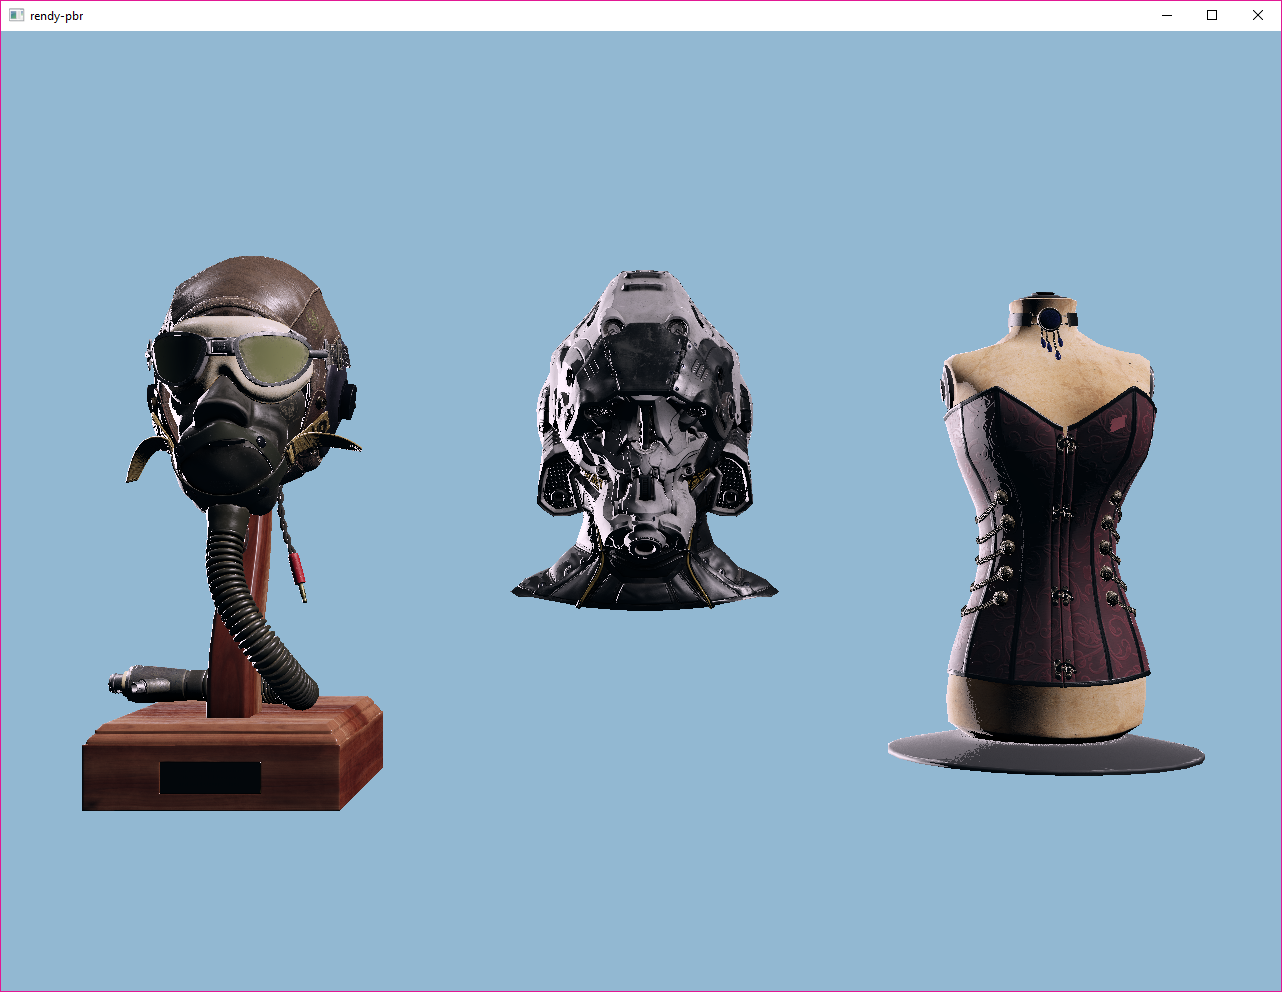
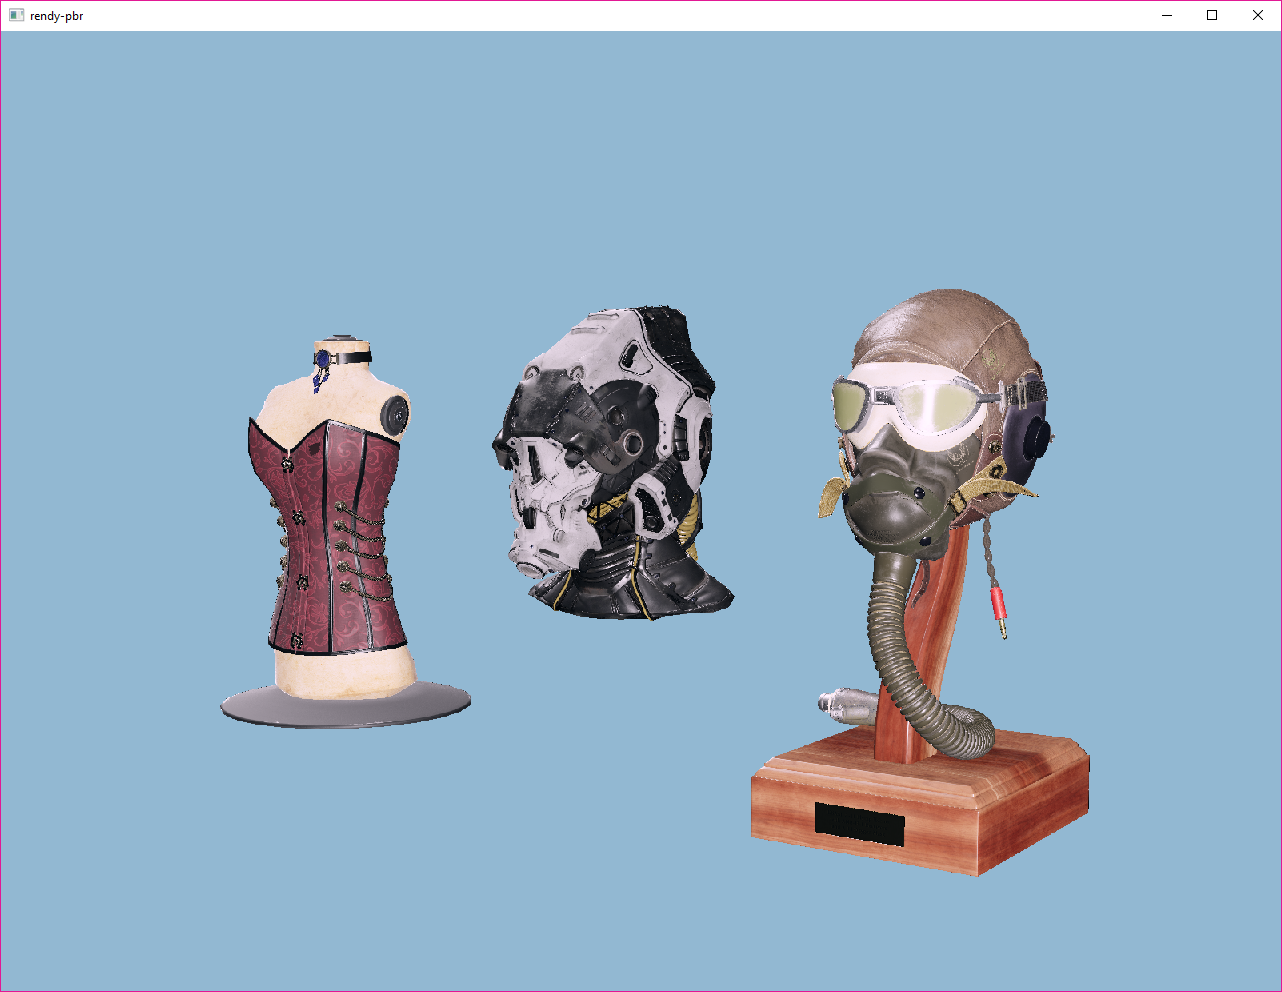
update screenshots and readme

Changed region(s): [[0.5616, 0.2812, 0.936, 0.9062], [0.0624, 0.25, 0.3744, 0.8438], [0.3744, 0.25, 0.624, 0.625]]

diff --git a/README.md b/README.md
@@ -1,20 +1,25 @@
 # `rendy-pbr`
 
-This is a toy realtime physically-based renderer written with `rendy`, a 'make-your-own-renderer' toolkit
+This is a small, realtime physically-based renderer written with `rendy`, a 'make-your-own-renderer' toolkit
 which builds on `gfx-hal` by providing a render graph, compile- and run-time safety checks, and
-other helpers.
+other helpers. It is a testbed for `rendy` and Amethyst; much or all of what is implemented here will eventually be added to the Amethyst renderer in some form.
+
+![](screenshots/ibl1.png)
 
 ## Planned features/next steps:
 
-* [x] Physically based shading model
-* [x] Point lights
-* [x] Basic `glTF` import
-* [x] HDR rendering with a tone mapping pass
-* [x] More robust `glTF` import
-* [x] Scene format for loading models from multiple glTF files
-* [ ] Diffuse and specular environment mapping
-* [ ] Directional lights
-* [ ] Shadow mapping
+-   [x] Physically based shading model
+-   [x] Point lights
+-   [x] Basic `glTF` import
+-   [x] HDR rendering with a tone mapping pass
+-   [x] More robust `glTF` import
+-   [x] Scene format for loading models from multiple glTF files
+-   [x] Diffuse and specular image based lighting using split-sum approximation
+-   [x] Emissive materials
+-   [ ] Bloom
+-   [ ] Postprocess color correction
+-   [ ] Directional lights
+-   [ ] Shadow mapping
 
 # Scene Description
 
@@ -25,30 +30,43 @@ tracker!
 # Controls
 
 ### Navigation
-* **Left click**: Rotate camera
-* **Middle click**: Pan camera
-* **Right click/Scroll wheel**: Dolly camera
 
-\* *Note: for now these controls are disabled*
+-   **Left click**: Rotate camera
+-   **Middle click**: Pan camera
+-   **Right click/Scroll wheel**: Dolly camera
+
+\* _Note: for now model controls are disabled_
+
 ### ~~Model controls~~
-* ~~**X**: Add a row of models in the X direction~~
-* ~~**Y**: Add a row of models in the Y direction~~
-* ~~**Z**: Add a row of models in the Z direction~~
 
-\* *Hold shift to subtract a row*
+-   ~~**X**: Add a row of models in the X direction~~
+-   ~~**Y**: Add a row of models in the Y direction~~
+-   ~~**Z**: Add a row of models in the Z direction~~
+
+\* _Hold shift to subtract a row_
 
 ### Tonemapping/Exposure controls
-* **A**: Use ACES Tonemapping curve
-* **U**: Use Uncharted 2 Tonemapping curve
-* **C**: Display Uncharted 2 and ACES in split-screen configuration
-* **Hold CTRL + left click**: Adjust split screen split
-* **E**: Increase exposure f-stop (hold shift to decrease)
 
-# Screenshots
+-   **A**: Use ACES Tonemapping curve
+-   **U**: Use Uncharted 2 Tonemapping curve
+-   **C**: Display Uncharted 2 and ACES in split-screen configuration
+-   **Hold CTRL + left click**: Adjust split screen split
+-   **E**: Increase exposure f-stop (hold shift to decrease)
 
-![](screenshots/scene1.png)
-![](screenshots/scene2.png)
+### Environment Mapping/Processed IBL Mapping Display Controls
+
+-   **M**: View HDR environment map
+-   **I**: View convoluted irradiance map
+-   **S**: View convoluted specular radiance map
+-   **S**: View rougher convolution of specular map
+-   **Shift+S**: View smoother convolution of specular map
+
+# More Screenshots
+
 ![](screenshots/helmet1.png)
 ![](screenshots/helmet2.png)
+![](screenshots/ibl2.png)
+![](screenshots/ibl3.png)
+![](screenshots/scene1.png)
 ![](screenshots/helmet3.png)
 ![](screenshots/helmet4.png)
